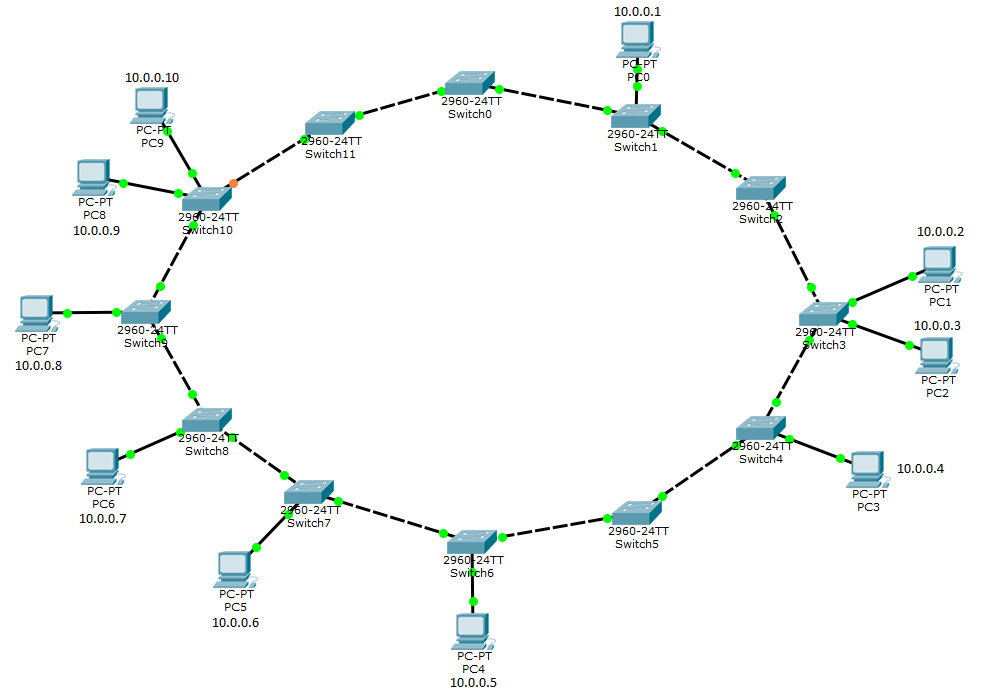
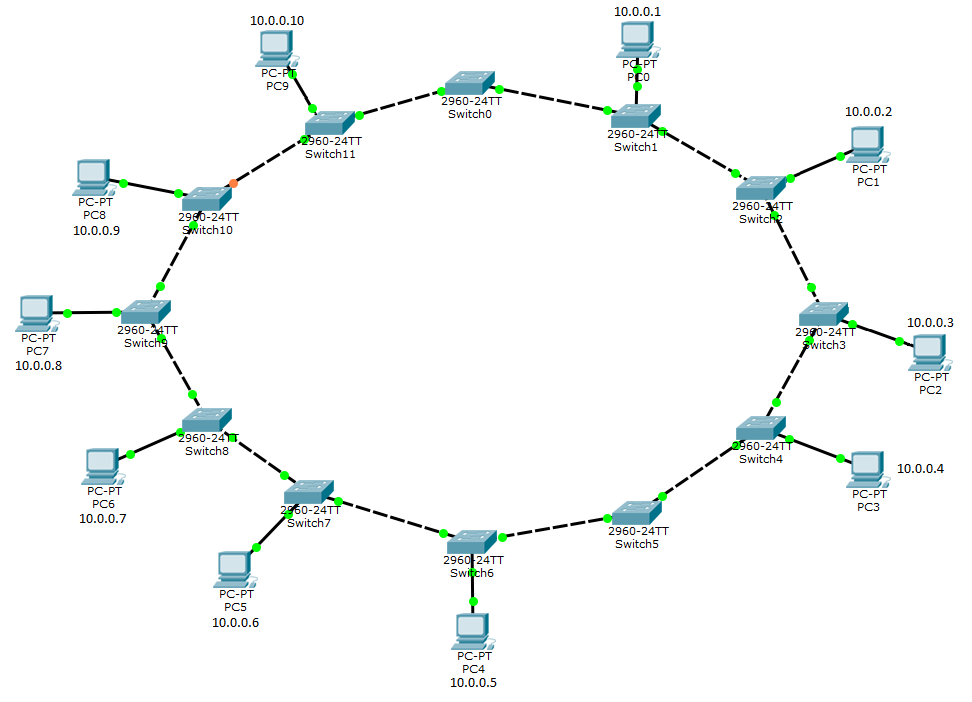
Zmena topológie
Rozvnomerné rozdelenie hostov (podľa zadania)

diff --git a/scripts/topo3.py b/scripts/topo3.py
@@ -35,7 +35,7 @@ if "__main__" == __name__:
 	s11 = net.addSwitch("s11",dpid="0000000000000012") 
       
 	net.addLink(s1,h0)
-	net.addLink(s3,h1)
+	net.addLink(s2,h1)
 	net.addLink(s3,h2)
 	net.addLink(s4,h3)
 	net.addLink(s6,h4)
@@ -43,7 +43,7 @@ if "__main__" == __name__:
 	net.addLink(s8,h6)
 	net.addLink(s9,h7)
 	net.addLink(s10,h8)
-	net.addLink(s10,h9)
+	net.addLink(s11,h9)
 	
 	net.addLink(s0,s1)
 	net.addLink(s1,s2)
